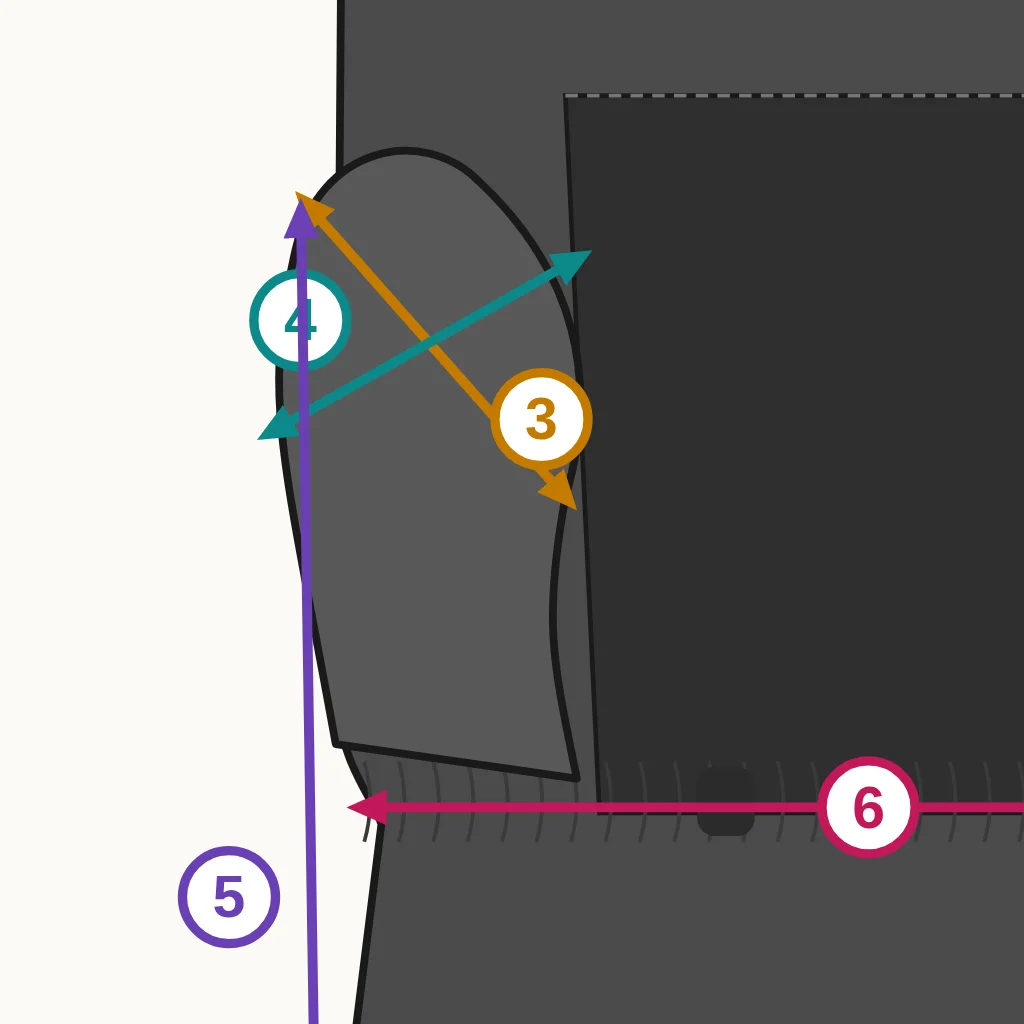
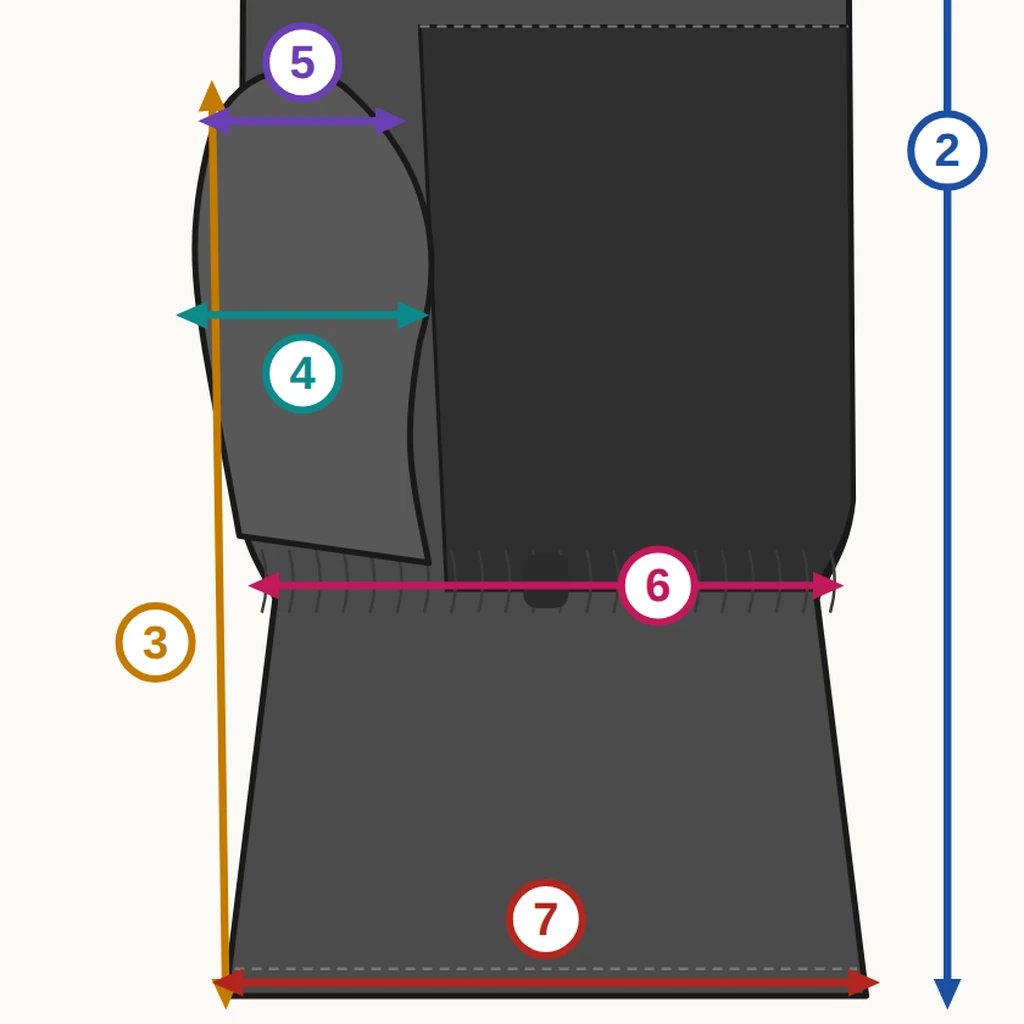
Mitaines : cotes 3, 4, 5 et 8 redéfinies sur photos de l'atelier
Nouvelle numérotation voulue par la direction :
- 3 : bout du pouce → bas de la mitaine, le long de la couture (sans
  théorique : le pouce pivote au montage ; relevée sur l'étalon)
- 4 : largeur du pouce à la jonction avec la main (P3, à 15 % de l'axe)
- 5 : largeur du haut du pouce, à 1 cm sous le bout
- 8 : diamètre de l'ouverture arrondie en cercle (2 × cote 7 / π)
1, 2, 6 et 7 inchangées. Théoriques recalculées depuis les DXF Lectra ;
dessin, schéma du point et panneaux 1-2 de la planche retracés ; textes des
points mis à jour. Les mesures 3-4-5 saisies avant le changement passent à
103-104-105 : gardées, hors de la grille.

Claude-Session: https://claude.ai/code/session_01954X9VVgP1YHDjc7WYAugY

diff --git a/mrp/tests/qualite.js b/mrp/tests/qualite.js
@@ -286,7 +286,7 @@ t('les quatre onglets existent, « tous » compris',
   const TITRE = 'Cotes hors-tout et incréments de gradation, contre le patron';
   insT.run(mp, 1, 'Largeur', 'S', 1, 133, 125, '± 3', TITRE, 'supposée', 'corps 14 mm');
   insT.run(mp, 1, 'Largeur', 'M', 2, 143, 135, '± 3', TITRE, 'supposée', 'corps 14 mm');
-  insT.run(mp, 5, 'Coin → bout du pouce', 'M', 2, null, null, '± 5', TITRE, 'supposée', 'corps 14 mm');
+  insT.run(mp, 3, 'Bout du pouce → bas, le long de la couture', 'M', 2, null, null, '± 5', TITRE, 'supposée', 'corps 14 mm');
   const o2 = db.prepare(`INSERT INTO ordres (numero, titre, statut) VALUES (?,?, 'planifie')`)
     .run(`OP-COT-${process.pid}`, 'Cotes').lastInsertRowid;
   const lotA = db.prepare(`INSERT INTO ordre_items (ordre_id, produit_id, quantite) VALUES (?,?,?)`)
@@ -294,7 +294,7 @@ t('les quatre onglets existent, « tous » compris',
   const lotB = db.prepare(`INSERT INTO ordre_items (ordre_id, produit_id, quantite) VALUES (?,?,?)`)
     .run(o2, mp, 5).lastInsertRowid;
   const r1 = D.enregistrerReleves(mp, lotA, u,
-    { v_1_M: '136,5', v_1_S: '', v_5_M: '202', v_9_M: '10', v_1_XL: '99', v_1_S2: 'x', retour: '/' });
+    { v_1_M: '136,5', v_1_S: '', v_3_M: '202', v_9_M: '10', v_1_XL: '99', v_1_S2: 'x', retour: '/' });
   t('la virgule décimale passe, une case vide n\'écrit rien, une cote inconnue est ignorée',
     r1.n === 2 && r1.illisibles.length === 0, JSON.stringify(r1));
   const r2 = D.enregistrerReleves(mp, lotA, u, { v_1_M: '136.5', v_1_S: 'abc' });
@@ -306,7 +306,7 @@ t('les quatre onglets existent, « tous » compris',
   const cM = (g, n) => g.lignes.find(l => l.num === n).cases.M;
   t('chaque lot voit SES mesures', cM(gA, 1).reel.valeur_mm === 136.5 && cM(gB, 1).reel.valeur_mm === 141);
   t('136,5 contre 135 ± 3 : vert ; 141 : rouge', cM(gA, 1).etat === 'ok' && cM(gB, 1).etat === 'ko');
-  t('la cote 5 sans théorique garde sa mesure', cM(gA, 5).theo === null && cM(gA, 5).reel.valeur_mm === 202);
+  t('la cote 3 sans théorique garde sa mesure', cM(gA, 3).theo === null && cM(gA, 3).reel.valeur_mm === 202);
   const h = V.grilleCotesHTML(gA, { action: '/ordres/1/items/1/cotes', retour: '/x' });
   t('la grille éditable a un champ par case, prérempli, et le bouton',
     h.includes('name="v_1_M"') && h.includes('value="136,5"') && h.includes('Enregistrer les mesures réelles'));
@@ -325,7 +325,17 @@ t('les quatre onglets existent, « tous » compris',
   const lancer = () => execFileSync(process.execPath, ['--no-warnings',
     require('node:path').join(__dirname, '..', 'import_cotes.js'), '--ecrire'],
     { env: process.env, encoding: 'utf8' });
+  // Les cotes 3-4-5 des mitaines ont changé de sens le 26/09/2026 : une mesure
+  // d'avant ne doit pas s'afficher sous la nouvelle définition.
+  const mpol = db.prepare(`SELECT id FROM produits WHERE code = 'MIT-POLAR'`).get().id;
+  const insR = db.prepare(`INSERT INTO cotes_releves (produit_id, num, taille, valeur_mm, cree_le)
+    VALUES (?,?,?,?,?)`);
+  const avant = insR.run(mpol, 4, 'M', 50, '2026-09-25 10:00:00').lastInsertRowid;
+  const apres = insR.run(mpol, 4, 'M', 53, '2026-09-27 10:00:00').lastInsertRowid;
   lancer(); lancer();
+  const numDe = (id) => db.prepare(`SELECT num FROM cotes_releves WHERE id = ?`).get(id).num;
+  t('une cote 4 de mitaine mesurée avant la redéfinition passe à 104, une d\'après reste 4',
+    numDe(avant) === 104 && numDe(apres) === 4, `${numDe(avant)} ${numDe(apres)}`);
   t('une mesure transmise par écrit n\'entre qu\'une fois, même après deux démarrages',
     db.prepare(`SELECT COUNT(*) n FROM cotes_releves WHERE produit_id = ? AND taille = '12F-10H' AND num = 1`)
       .get(sp).n === 1);

diff --git a/mrp/import_cotes.js b/mrp/import_cotes.js
@@ -47,6 +47,9 @@ function tsv(nom) {
 
 const PERTE = Math.PI / 2 - 1;
 
+/** Heure UTC du changement de sens des cotes 3, 4, 5 des mitaines. */
+const REDEFINITION_MITAINES = '2026-09-26 11:29:00';
+
 /** La cote finie d'une ligne de patron pour une épaisseur donnée. */
 function coteFinie(couture, bords, epaisseur) {
   if (couture === null || !Number.isFinite(couture)) return null;
@@ -92,6 +95,18 @@ function importer() {
         n++;
       }
     }
+    // Le 26/09/2026, les cotes 3, 4 et 5 des mitaines ont changé de sens
+    // (fourche → bout, largeur à mi-pouce, coin → bout DEVENUS bout → bas le
+    // long de la couture, largeur à la jonction, largeur du haut). Une mesure
+    // prise avant ne doit pas s'afficher sous la nouvelle définition : elle
+    // passe à 103, 104, 105 — gardée, hors de la grille. Rejouable sans effet :
+    // seules les lignes antérieures au changement sont visées.
+    if (ECRIRE) db.prepare(`UPDATE cotes_releves SET num = num + 100
+       WHERE num IN (3, 4, 5) AND cree_le < ?
+         AND produit_id IN (SELECT id FROM produits WHERE code IN
+           (${produits.filter(p => p.famille === 'mitaines-adultes').map(() => '?').join(',') || "''"}))`)
+      .run(REDEFINITION_MITAINES, ...produits.filter(p => p.famille === 'mitaines-adultes').map(p => p.produit));
+
     // Les mesures transmises par écrit : une fois chacune, jamais réécrites.
     const existe = db.prepare(`SELECT 1 FROM cotes_releves WHERE produit_id = ? AND num = ?
       AND taille = ? AND valeur_mm = ? AND item_id IS NULL AND substr(cree_le, 1, 10) = ?`);

diff --git a/patrons/mitaines/dessin.py b/patrons/mitaines/dessin.py
@@ -31,16 +31,20 @@ def fl(k,a,b,off=(0,0)):
     out.append(badge(k,(A[0]+B[0])/2+off[0],(A[1]+B[1])/2+off[1]))
 fl(1,(0,62),(W,62),(0,-2))
 fl(2,(W+22,0),(W+22,H),(0,-60))
-fl(3,(tw-4,crotch_y),(-6,tip_y+6),(34,22))
-m=((tw-4-6)/2,(crotch_y+tip_y+6)/2)
-fl(4,(-12,m[1]+14),(tw-2,m[1]-16),(-40,-8))
-fl(5,(-4,H),(-7,tip_y+8),(-26,40))
+# 3 : bout du pouce -> bas de la mitaine, le long de la couture cote pouce
+fl(3,(-4,H),(-7,tip_y+2),(-26,40))
+# 4 : largeur du pouce a la jonction avec la main (niveau de la fourche)
+fl(4,(-12,crotch_y-6),(tw-5,crotch_y-6),(0,24))
+# 5 : largeur du haut du pouce, a 1 cm sous le bout
+fl(5,(-7,tip_y+8),(33,tip_y+8),(0,-24))
 fl(6,(4,POI+1),(W-4,POI+1),(46,0))
 fl(7,(-4,H-3),(W+4,H-3),(0,-26))
-cx,cy=P(W/2,H+22); rx=(W+8)/2*S
-out.append(f'<ellipse cx="{cx:.1f}" cy="{cy:.1f}" rx="{rx:.1f}" ry="17" fill="none" stroke="{COL[8]}" stroke-width="3.2"/>'+badge(8,cx,cy))
+# 8 : l'ouverture arrondie en cercle, et son diametre (2 x cote 7 / pi = 91 mm en M)
+D8=2*(W+8)/math.pi; cx,cy=P(W/2,H+14+D8/2); rr=D8/2*S
+out.append(f'<circle cx="{cx:.1f}" cy="{cy:.1f}" r="{rr:.1f}" fill="none" stroke="{COL[8]}" stroke-width="3.2" stroke-dasharray="7 5"/>')
+fl(8,(W/2-D8/2,H+14+D8/2),(W/2+D8/2,H+14+D8/2),(0,-24))
 marks=''.join(f'<marker id="h{k}" viewBox="0 0 10 10" refX="5" refY="5" markerWidth="4.5" markerHeight="4.5" orient="auto-start-reverse"><path d="M0,1 L9,5 L0,9 z" fill="{c}"/></marker>' for k,c in COL.items())
-Wc,Hc=int(P(W+60,0)[0])+10,int(P(0,H+45)[1])+10
+Wc,Hc=int(P(W+60,0)[0])+10,int(P(0,H+14+D8+30)[1])+10
 svg=f'''<svg xmlns="http://www.w3.org/2000/svg" width="{Wc}" height="{Hc}" viewBox="0 0 {Wc} {Hc}">
 <defs>{marks}</defs><rect width="{Wc}" height="{Hc}" fill="#fbfaf6"/>
 <path d="{corps}" fill="#4a4a4a" stroke="#1a1a1a" stroke-width="2.5" stroke-linejoin="round"/>
@@ -50,6 +54,6 @@ svg=f'''<svg xmlns="http://www.w3.org/2000/svg" width="{Wc}" height="{Hc}" viewB
 <path d="M{pt(-2,H-6)} L{pt(W+2,H-6)}" stroke="#777" stroke-width="1.2" stroke-dasharray="4 3"/>
 <path d="{pouce}" fill="#585858" stroke="#1a1a1a" stroke-width="2.5" stroke-linejoin="round"/>
 {''.join(out)}
-<text x="{P(W/2,0)[0]:.1f}" y="{P(0,H+45)[1]:.1f}" font-size="14" text-anchor="middle" fill="#555" font-family="Helvetica,Arial,sans-serif">Mitaine finie, côté paume, posée à plat — taille M à l’échelle</text>
+<text x="{P(W/2,0)[0]:.1f}" y="{P(0,H+14+D8+24)[1]:.1f}" font-size="14" text-anchor="middle" fill="#555" font-family="Helvetica,Arial,sans-serif">Mitaine finie, côté paume, posée à plat — taille M à l’échelle</text>
 </svg>'''
 open('finie.svg','w').write(svg); print(Wc,Hc)

diff --git a/patrons/mitaines/cotes.py b/patrons/mitaines/cotes.py
@@ -3,15 +3,23 @@
 Écrit les lignes `couture_mm` de mrp/donnees/cotes-patrons.tsv (num, taille, valeur).
 Les DXF Lectra (SHELL_LEFT_<taille>.DXF) doivent être dans ce dossier.
 
+Numérotation du 26/09/2026, redéfinie par la direction sur photos de l'atelier :
+
   1 largeur        largeur max de P1 (le dos)
   2 hauteur        longueur de P1, bout des doigts -> bas de manchette
-  3 pouce          P3, cran n4 (fourche) -> cran n5 (bout du pouce)
-  4 largeur pouce  P3, largeur du lobe à mi-chemin entre le milieu de la base
-                   (crans n4 et n0) et le bout n5, perpendiculaire à cet axe
-  5 coin -> bout   pas de valeur : le pouce s'écarte au montage (voir README)
+  3 pouce -> bas   bout du pouce -> bas de la mitaine, le long de la couture du
+                   côté pouce. Pas de valeur : le pouce pivote au montage, et la
+                   pièce à plat ne dit pas où tombe son bout (voir README)
+  4 base pouce     largeur du pouce à la jonction avec la main : P3, largeur du
+                   lobe perpendiculaire à son axe, à 15 % de la base (milieu des
+                   crans n4-n0) vers le bout n5
+  5 haut pouce     largeur du pouce à 10 mm sous le bout, même méthode
   6 poignet        largeur de P1 à la ligne des crans du poignet
   7 manchette      largeur de P1 au bas
-  8 diamètre       2 x cote 7 / pi
+  8 diamètre       ouverture arrondie en cercle : 2 x cote 7 / pi
+
+Les anciennes cotes 3 (fourche -> bout), 4 (largeur à mi-longueur) et 5 (coin
+inférieur -> bout) ne sont plus relevées.
 
 Les crans de P4 confirment l'assemblage du pouce : P4 n0->n1 (66 mm en M) = P3 n4->n5,
 P4 n1->n2 (46) = P3 n5->n0, P4 pointe->n0 (84) = P3 n3->n4.
@@ -40,8 +48,9 @@ for s in ['XS', 'S', 'M', 'L', 'XL']:
     base = ((f[0]+b[0])/2, (f[1]+b[1])/2); L = d(base, t)
     ax = ((t[0]-base[0])/L, (t[1]-base[1])/L); mil = ((base[0]+t[0])/2, (base[1]+t[1])/2)
     wc = width_at(p1, x1-2)
+    a_ = lambda u: (base[0]+ax[0]*u, base[1]+ax[1]*u)
     v = {1: max(width_at(p1, x0+(x1-x0)*i/100) for i in range(5, 99)), 2: x1-x0,
-         3: d(f, t), 4: largeur_perp(p3, mil, ax), 5: None,
+         3: None, 4: largeur_perp(p3, a_(0.15*L), ax), 5: largeur_perp(p3, a_(L-10), ax),
          6: width_at(p1, poignet), 7: wc, 8: 2*wc/math.pi}
     for k in range(1, 9):
         print(f'{k}\t{s}\t{"" if v[k] is None else round(v[k], 1)}')

diff --git a/patrons/mitaines/README.md b/patrons/mitaines/README.md
@@ -5,7 +5,7 @@ incréments de gradation » des mitaines plein air, polar, laine et cuir, se tir
 
 ## Source
 
-Les DXF Lectra (AAMA, métrique, 2022) du Drive :
+Les DXF Lectra (AAMA, métrique, 2022) du Drive (fichiers du 20/10/2022, `SHELL_LEFT_<taille>.DXF`) :
 `POUR L LESSARD - MITAINES ASCLEPIADE - LASCLAY / Modele Plein air / Patrons DXF / 1. Xsmall … 5. XLarge`,
 fichiers `SHELL_LEFT_<taille>.DXF`. Ils ne sont pas versionnés ici. Pour regénérer la charte, déposer
 les cinq fichiers dans ce dossier.
@@ -36,12 +36,22 @@ mesurées sur une vraie pièce ; la grille le dit.
 ## Le pouce
 
 Les crans de P4 donnent son assemblage : son bord pointe → n0 → n1 → n2 (84 + 66 + 46 mm en M) se
-coud sur P3 de n3 à n4 (fourche), puis n5 (bout du pouce), puis n0. Les cotes 3 et 4 se lisent donc
-sur P3, entre ces crans.
+coud sur P3 de n3 à n4, puis n5 (bout du pouce), puis n0.
 
-La cote 5 (coin inférieur → bout du pouce) n'a **pas** de théorique. À plat, le pouce s'écarte vers le
-bord, alors que P3 étalé le mettrait au milieu de la paume : 246 mm si P3 était à plat, environ 206 mm
-sur la photo de la boutique. Elle se mesure sur la pièce étalon ; la grille l'affiche sans la juger.
+**Numérotation du 26/09/2026**, redéfinie par la direction sur photos de l'atelier. Les anciennes
+3 (fourche → bout), 4 (largeur à mi-longueur) et 5 (coin inférieur → bout) sont remplacées :
+
+- **3** — bout du pouce → bas de la mitaine, le long de la couture côté pouce. **Pas de
+  théorique** : le pouce pivote au montage, et la pièce à plat ne dit pas où tombe son bout (P3
+  étalée donnerait 298 mm en M le long de la couture, le dessin fini ~200 mm). Elle se mesure sur
+  la pièce étalon ; la grille l'affiche sans la juger.
+- **4** — largeur du pouce à la jonction avec la main : P3, largeur du lobe perpendiculaire à son
+  axe, à 15 % de la base (milieu des crans n4-n0) vers le bout n5.
+- **5** — largeur du haut du pouce, à 10 mm sous le bout, même méthode.
+- **8** — l'ouverture arrondie en cercle presque parfait, puis son diamètre : 2 × cote 7 / π.
+
+Les cotes 3, 4 et 5 ensemble disent l'angle et la forme du pouce. Les mesures saisies avant le
+changement sont renumérotées 103, 104, 105 par `import_cotes.js` : gardées, hors de la grille.
 
 ## Le dessin
 
